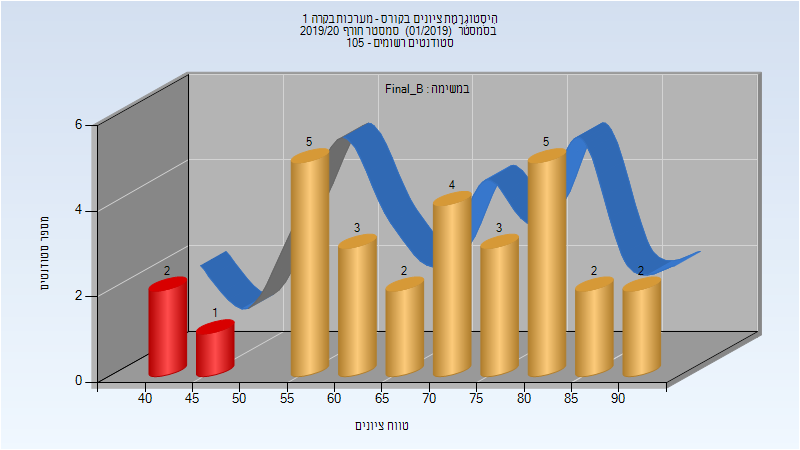
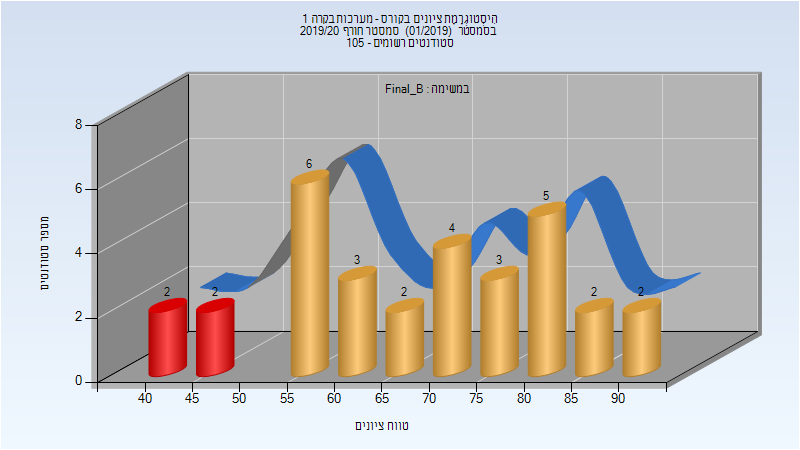
Deploy michael-maltsev/technion-histograms to github.com/michael-maltsev/technion-histograms.git:gh-pages

diff --git a/044191/index.html b/044191/index.html
@@ -989,13 +989,13 @@
 </thead>
 <tbody>
 <tr>
-<td>29</td>
-<td>21/8</td>
-<td>72</td>
+<td>31</td>
+<td>21/10</td>
+<td>68</td>
 <td>34</td>
 <td>89</td>
-<td>64.966</td>
-<td>68</td>
+<td>63.613</td>
+<td>61</td>
 </tr>
 </tbody>
 </table>
@@ -1015,13 +1015,13 @@
 </thead>
 <tbody>
 <tr>
-<td>29</td>
-<td>26/3</td>
-<td>90</td>
+<td>31</td>
+<td>27/4</td>
+<td>87</td>
 <td>42</td>
 <td>91</td>
-<td>70.069</td>
-<td>73</td>
+<td>68.903</td>
+<td>67</td>
 </tr>
 </tbody>
 </table>

diff --git a/044191/README.md b/044191/README.md
@@ -307,7 +307,7 @@
 
 | סטודנטים | עברו/נכשלו | אחוז עוברים | ציון מינימלי | ציון מקסימלי | ממוצע | חציון |
 | ---- | ---- | ---- | ---- | ---- | ---- | ---- |
-| 29 | 21/8 | 72 | 34 | 89 | 64.966 | 68 |
+| 31 | 21/10 | 68 | 34 | 89 | 63.613 | 61 |
 
 ### סופי מועד ב'
 
@@ -315,7 +315,7 @@
 
 | סטודנטים | עברו/נכשלו | אחוז עוברים | ציון מינימלי | ציון מקסימלי | ממוצע | חציון |
 | ---- | ---- | ---- | ---- | ---- | ---- | ---- |
-| 29 | 26/3 | 90 | 42 | 91 | 70.069 | 73 |
+| 31 | 27/4 | 87 | 42 | 91 | 68.903 | 67 |
 
 ### סופי
 
